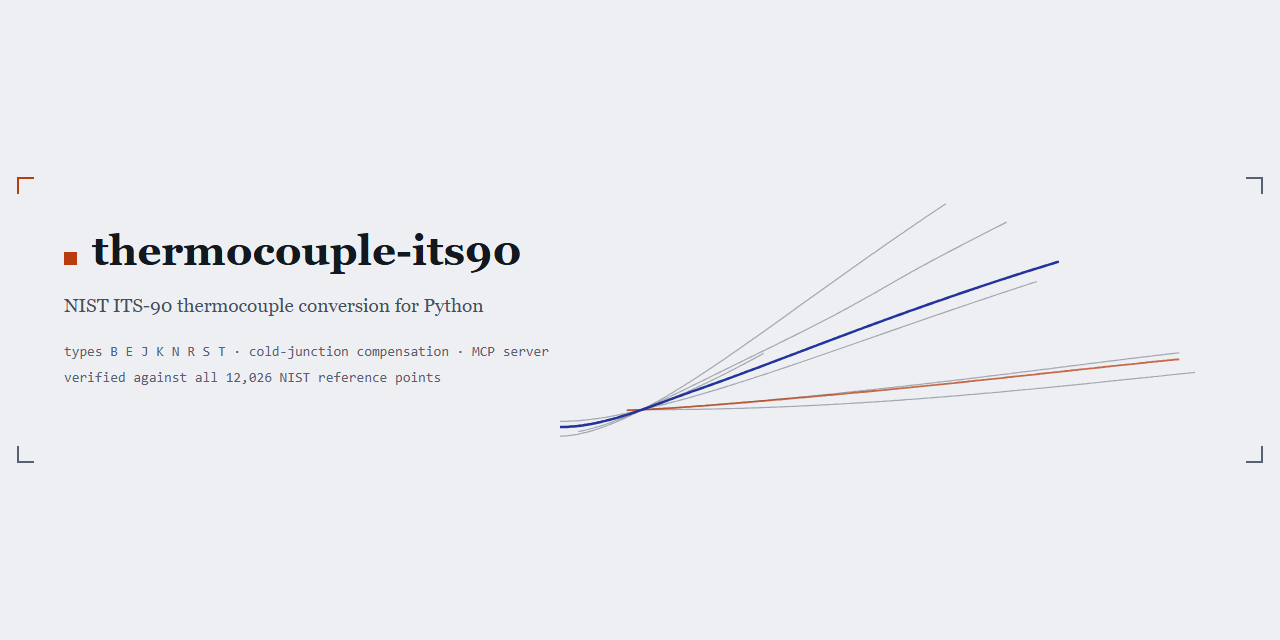
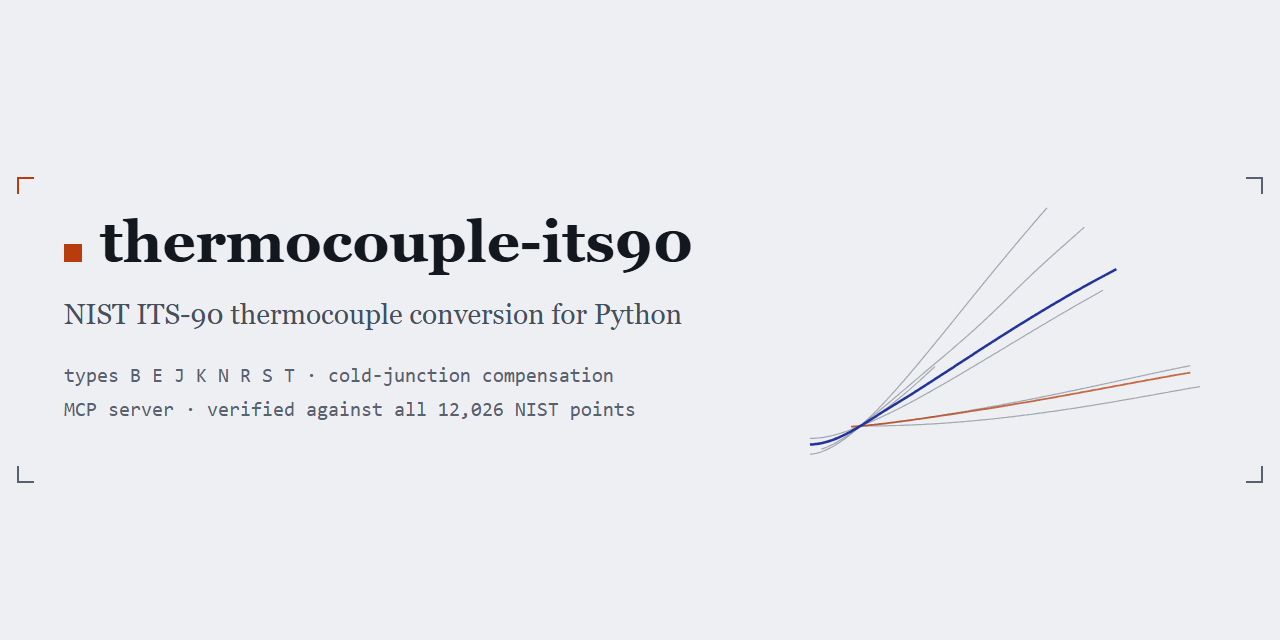
Figures sized for the README column, label collisions removed
The matplotlib figures rendered at 9-point fonts inside a 1720-pixel
image, which GitHub scales to roughly half size; all fonts are now set
for that display scale. The R, S and T end labels collided (R and S
endpoints sit 2.4 mV apart, and T ends beneath the J curve), so labels
are hand-placed and T gets a leader line into the clear gap between K
and N. Banner text enlarged and the curve fan moved to its own third of
the canvas. Social card regenerated.

diff --git a/docs/make_figures.py b/docs/make_figures.py
@@ -55,29 +55,51 @@ def style_axes(ax, pal):
         ax.spines[side].set_visible(False)
     for side in ("left", "bottom"):
         ax.spines[side].set_color(pal["ink3"])
-    ax.tick_params(colors=pal["ink2"], labelsize=9)
-    ax.grid(True, color=pal["rule"], linewidth=0.6, alpha=0.9)
+    # Rendered at roughly half size in GitHub's content column, so every
+    # font here is set about twice the size that looks right full-scale.
+    ax.tick_params(colors=pal["ink2"], labelsize=15)
+    ax.grid(True, color=pal["rule"], linewidth=0.7, alpha=0.9)
     ax.set_axisbelow(True)
 
 
+# Hand-placed end-label offsets in points: R and S endpoints are 2.4 mV
+# apart and T ends just beneath the J curve, so automatic placement collides.
+LABEL_OFFSETS = {
+    "E": (8, 4), "J": (8, 0), "K": (8, 0), "N": (8, -4),
+    "R": (8, 12), "S": (8, -2), "B": (8, -6),
+}
+
+
 def reference_functions(theme: str, pal: dict) -> None:
-    fig, ax = plt.subplots(figsize=(8.6, 4.6), dpi=200)
+    fig, ax = plt.subplots(figsize=(9.4, 5.4), dpi=200)
     fig.patch.set_facecolor(pal["paper"])
     style_axes(ax, pal)
     for letter in ["E", "J", "K", "N", "T", "S", "R", "B"]:
         ts, es = curve(TYPES[letter])
-        ax.plot(ts, es, color=SERIES[theme][letter], linewidth=1.7)
-        ax.annotate(letter, (ts[-1], es[-1]), xytext=(5, 0),
+        ax.plot(ts, es, color=SERIES[theme][letter], linewidth=2.4)
+        if letter == "T":
+            # The 400 C corridor is packed (E, J, K all pass close by), so
+            # T gets a short leader into the clear gap between K and N.
+            ax.annotate("T", (ts[-1], es[-1]), xytext=(24, -34),
+                        textcoords="offset points",
+                        color=SERIES[theme][letter], fontsize=17,
+                        fontweight="bold", va="center", family="serif",
+                        arrowprops={"arrowstyle": "-",
+                                    "color": SERIES[theme][letter],
+                                    "lw": 1.0, "shrinkB": 3})
+            continue
+        ax.annotate(letter, (ts[-1], es[-1]), xytext=LABEL_OFFSETS[letter],
                     textcoords="offset points", color=SERIES[theme][letter],
-                    fontsize=10, fontweight="bold", va="center",
+                    fontsize=17, fontweight="bold", va="center",
                     family="serif")
-    ax.set_xlim(-290, 1930)
-    ax.set_xlabel("temperature (\N{DEGREE SIGN}C)", color=pal["ink2"], fontsize=10, family="serif")
-    ax.set_ylabel("EMF (mV, 0 \N{DEGREE SIGN}C reference)", color=pal["ink2"], fontsize=10, family="serif")
+    ax.set_xlim(-300, 1960)
+    ax.set_ylim(-13, 85)
+    ax.set_xlabel("temperature (\N{DEGREE SIGN}C)", color=pal["ink2"], fontsize=17, family="serif")
+    ax.set_ylabel("EMF (mV, 0 \N{DEGREE SIGN}C reference)", color=pal["ink2"], fontsize=17, family="serif")
     ax.set_title("The eight ITS-90 reference functions, computed by this library",
-                 color=pal["ink"], fontsize=12, family="serif", pad=12)
-    fig.text(0.905, 0.02, f"thermocouple-its90 v{__version__}",
-             color=pal["ink3"], fontsize=7, ha="right", family="monospace")
+                 color=pal["ink"], fontsize=20, family="serif", pad=14)
+    fig.text(0.985, 0.015, f"thermocouple-its90 v{__version__}",
+             color=pal["ink3"], fontsize=11, ha="right", family="monospace")
     fig.tight_layout()
     fig.savefig(OUT / f"reference-functions-{theme}.png",
                 facecolor=pal["paper"], bbox_inches="tight")
@@ -85,7 +107,7 @@ def reference_functions(theme: str, pal: dict) -> None:
 
 
 def type_b_dip(theme: str, pal: dict) -> None:
-    fig, ax = plt.subplots(figsize=(8.6, 3.4), dpi=200)
+    fig, ax = plt.subplots(figsize=(9.4, 4.2), dpi=200)
     fig.patch.set_facecolor(pal["paper"])
     style_axes(ax, pal)
     ts, es = [], []
@@ -94,23 +116,24 @@ def type_b_dip(theme: str, pal: dict) -> None:
         t = 0 + 400 * i / n
         ts.append(t)
         es.append(TypeB.emf(t))
-    ax.plot(ts, es, color=SERIES[theme]["B"], linewidth=2.0)
+    ax.plot(ts, es, color=SERIES[theme]["B"], linewidth=2.8)
     inv_lo, _ = TypeB.invertible_emf_range
-    ax.axhline(inv_lo, color=pal["ultra"], linewidth=1.1, linestyle=(0, (5, 3)))
-    ax.axhline(0.0, color=pal["ink3"], linewidth=0.8)
+    ax.axhline(inv_lo, color=pal["ultra"], linewidth=1.4, linestyle=(0, (5, 3)))
+    ax.axhline(0.0, color=pal["ink3"], linewidth=0.9)
     ax.annotate("0.291 mV: inversion starts here",
-                (395, inv_lo), xytext=(-8, 8), textcoords="offset points",
-                ha="right", color=pal["ultra"], fontsize=9, family="serif")
+                (12, inv_lo), xytext=(0, 10), textcoords="offset points",
+                ha="left", color=pal["ultra"], fontsize=15, family="serif")
     tmin = min(range(len(es)), key=lambda i: es[i])
     ax.annotate("the dip: one EMF, two temperatures",
-                (ts[tmin], es[tmin]), xytext=(26, 14),
-                textcoords="offset points", color=pal["signal"], fontsize=9,
+                (ts[tmin], es[tmin]), xytext=(30, 44),
+                textcoords="offset points", color=pal["signal"], fontsize=15,
                 family="serif",
-                arrowprops={"arrowstyle": "-", "color": pal["signal"], "lw": 0.8})
-    ax.set_xlabel("temperature (\N{DEGREE SIGN}C)", color=pal["ink2"], fontsize=10, family="serif")
-    ax.set_ylabel("EMF (mV)", color=pal["ink2"], fontsize=10, family="serif")
+                arrowprops={"arrowstyle": "-", "color": pal["signal"], "lw": 1.0})
+    ax.set_ylim(-0.09, 0.85)
+    ax.set_xlabel("temperature (\N{DEGREE SIGN}C)", color=pal["ink2"], fontsize=17, family="serif")
+    ax.set_ylabel("EMF (mV)", color=pal["ink2"], fontsize=17, family="serif")
     ax.set_title("Type B below 400 \N{DEGREE SIGN}C: why the library refuses to guess",
-                 color=pal["ink"], fontsize=12, family="serif", pad=12)
+                 color=pal["ink"], fontsize=20, family="serif", pad=14)
     fig.tight_layout()
     fig.savefig(OUT / f"type-b-dip-{theme}.png",
                 facecolor=pal["paper"], bbox_inches="tight")
@@ -120,10 +143,12 @@ def type_b_dip(theme: str, pal: dict) -> None:
 def banner(theme: str, pal: dict) -> None:
     """SVG banner: monograph crop marks, the registration square, real type K
     and type S curves as the motif. 1280x320."""
-    w, h = 1280, 320
+    w, h = 1280, 340
     # The recognizable image of the field: all eight reference functions on
-    # one COMMON temperature and EMF scale, fanning out from the origin.
-    x0, x1, y0, y1 = 560, 1195, 42, 278
+    # one COMMON temperature and EMF scale, fanning out from the origin. The
+    # fan owns the right third; the text block owns the left two thirds, so
+    # the two can never collide at any display size.
+    x0, x1, y0, y1 = 810, 1200, 46, 296
     t_lo, t_hi = -270.0, 1820.0
     e_lo, e_hi = -10.5, 77.0
 
@@ -155,12 +180,12 @@ def banner(theme: str, pal: dict) -> None:
   <path d="M{w - 34} {h - 18} H{w - 18} V{h - 34}" fill="none" stroke="{cm}" stroke-width="2"/>
   <!-- motif: the eight reference functions on one common scale -->
   {fan_svg}
-  <!-- wordmark -->
-  <rect x="64" y="92" width="13" height="13" fill="{pal['signal']}"/>
-  <text x="92" y="105" font-family="Charter, 'Iowan Old Style', Georgia, serif" font-size="42" font-weight="bold" fill="{pal['ink']}">thermocouple-its90</text>
-  <text x="64" y="152" font-family="Charter, Georgia, serif" font-size="19" fill="{pal['ink2']}">NIST ITS-90 thermocouple conversion for Python</text>
-  <text x="64" y="196" font-family="ui-monospace, Consolas, monospace" font-size="14" fill="{pal['ink3']}">types B E J K N R S T &#183; cold-junction compensation &#183; MCP server</text>
-  <text x="64" y="222" font-family="ui-monospace, Consolas, monospace" font-size="14" fill="{pal['ink3']}">verified against all 12,026 NIST reference points</text>
+  <!-- wordmark: sized to stay legible after GitHub scales this to ~890px -->
+  <rect x="64" y="84" width="18" height="18" fill="{pal['signal']}"/>
+  <text x="100" y="102" font-family="Charter, 'Iowan Old Style', Georgia, serif" font-size="58" font-weight="bold" fill="{pal['ink']}">thermocouple-its90</text>
+  <text x="64" y="164" font-family="Charter, Georgia, serif" font-size="28" fill="{pal['ink2']}">NIST ITS-90 thermocouple conversion for Python</text>
+  <text x="64" y="222" font-family="ui-monospace, Consolas, monospace" font-size="20" fill="{pal['ink3']}">types B E J K N R S T &#183; cold-junction compensation</text>
+  <text x="64" y="256" font-family="ui-monospace, Consolas, monospace" font-size="20" fill="{pal['ink3']}">MCP server &#183; verified against all 12,026 NIST points</text>
 </svg>
 """
     (OUT / f"banner-{theme}.svg").write_text(svg, encoding="utf-8")
